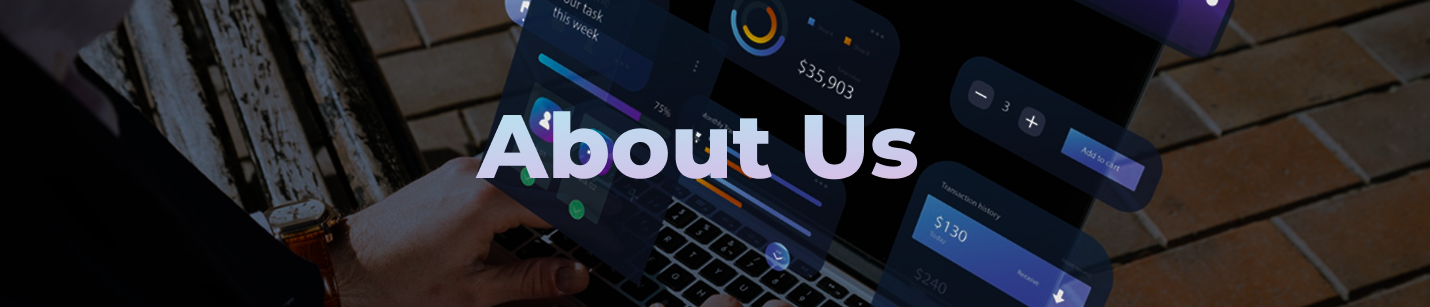
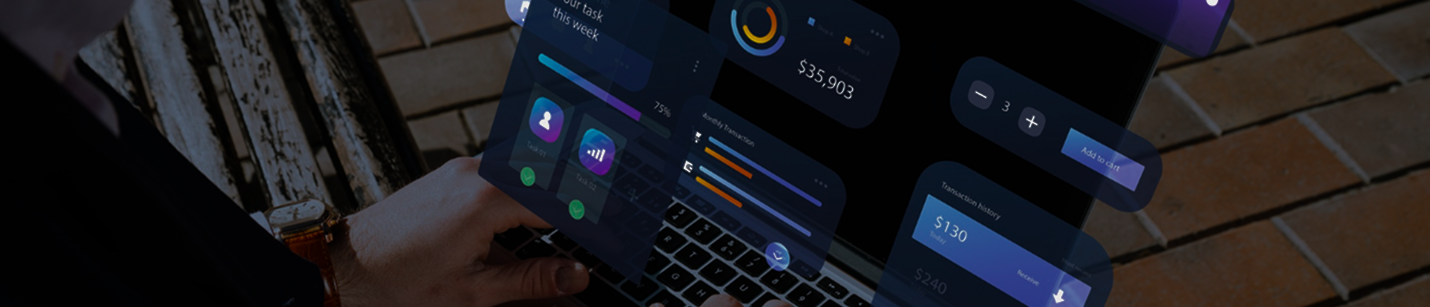
final edits 1

Changed region(s): [[0.3077, 0.3518, 0.6462, 0.5863]]

diff --git a/src/pages/Testimonials.jsx b/src/pages/Testimonials.jsx
@@ -1,8 +1,7 @@
 // src/pages/Testimonials.jsx
 import React, { useEffect, useState } from "react";
 import defaultPhoto from "../assets/austin-distel-jpHw8ndwJ_Q-unsplash.jpg";
-import heroPhoto from "../assets/testimonials.png";
-import ornamentImg from "../assets/Ornament81.png";
+import heroPhoto from "../assets/Group 28.png";
 import TestimonialsCarousel from "../components/TestimonialsCarousel";
 
 import img1 from "../assets/3.png";
@@ -32,15 +31,17 @@ async function loadPageMeta() {
     const res = await fetch("/content/pages/what-others-say/page.txt", { cache: "no-store" });
     if (!res.ok) throw new Error();
     const json = await res.json();
+
     return {
       heading: json.heading ?? "What Our Clients Say About Us",
-      intro: json.intro ?? "",
+      intro: "", 
       bg: json.meta?.bg || "#0b0b0b",
     };
   } catch {
     return { heading: "What Our Clients Say About Us", intro: "", bg: "#0b0b0b" };
   }
 }
+
 
 /* ---------- Testimonials parser (unchanged) ---------- */
 function parseTestimonials(txt) {
@@ -95,31 +96,19 @@ async function loadTestimonials() {
   };
 }
 
-/* ---------- Who We Worked With parser (intro as normal text) ---------- */
-/**
- * Structure:
- * [Intro paragraph...]
- *
- * Title 1:
- * Body lines...
- *
- * Title 2:
- * Body lines...
- * ...
- */
+/* ---------- Who We Worked With parser (unchanged) ---------- */
 function parseWhoWeWorkedWith(txt) {
   const rawLines = splitLines(txt);
   const lines = rawLines.map((l) => l.replace(/\u00A0/g, " ").trim());
   const N = lines.length;
 
-  // Intro paragraph: from top until first blank line (handle soft hyphen wraps)
+  // Intro paragraph
   let i = 0;
   const introBuf = [];
   while (i < N && lines[i] !== "") {
     introBuf.push(lines[i]);
     i++;
   }
-  // join lines, repairing "word-\nwrap" splits
   let intro = introBuf
     .reduce((acc, cur) => {
       if (acc.length && acc[acc.length - 1].endsWith("-") && /^[A-Za-z]/.test(cur)) {
@@ -133,10 +122,8 @@ function parseWhoWeWorkedWith(txt) {
     .replace(/\s{2,}/g, " ")
     .trim();
 
-  // Skip blank lines after intro
   while (i < N && lines[i] === "") i++;
 
-  // Items: any line that ends with ":" is a title; following non-blank lines form its body
   const items = [];
   while (i < N) {
     while (i < N && lines[i] === "") i++;
@@ -189,8 +176,6 @@ export default function Testimonials() {
     };
   }, []);
 
-  const items = data.items || [];
-
   const FIXED_HEADING =
     "The success of DATASCIENCEGT is built on a foundation of trust and expertise. These testimonials reflect the experience of working with our company.";
 
@@ -210,8 +195,26 @@ export default function Testimonials() {
         />
       </section>
 
-      {/* WHO WE WORKED WITH — centered backdrop only */}
-      <section className="mx-auto max-w-6xl px-4 sm:px-6 mt-10 sm:mt-12">
+      {/* ===== TESTIMONIALS (moved up) ===== */}
+      <section className="px-5 md:px-10 lg:px-16 py-6 md:py-8">
+        <div className="max-w-6xl mx-auto">
+          <h2 className="text-2xl md:text-3xl font-semibold text-white/90">{FIXED_HEADING}</h2>
+          {data.intro && <p className="text-white/70 mt-3 max-w-2xl">{data.intro}</p>}
+        </div>
+      </section>
+
+      <section className="px-3 md:px-6 lg:px-10 pb-10 md:pb-16">
+        <div className="relative mx-auto max-w-[1100px]">
+          {/* background ornament kept behind carousel */}
+
+          <div className="relative z-10">
+            <TestimonialsCarousel items={data.items || []} showTitle={false} />
+          </div>
+        </div>
+      </section>
+
+      {/* ===== WHO WE WORKED WITH (now below testimonials) ===== */}
+      <section className="mx-auto max-w-6xl px-4 sm:px-6 mt-6 sm:mt-8">
         <div className="relative h-[120px] sm:h-[180px] lg:h-[220px] flex items-center justify-center">
           <span
             aria-hidden="true"
@@ -281,37 +284,6 @@ export default function Testimonials() {
           </div>
         </section>
       )}
-
-      {/* Heading for Testimonials */}
-      <section className="px-5 md:px-10 lg:px-16 py-6 md:py-8">
-        <div className="max-w-6xl mx-auto">
-          <h2 className="text-2xl md:text-3xl font-semibold text-white/90">{FIXED_HEADING}</h2>
-          {data.intro && <p className="text-white/70 mt-3 max-w-2xl">{data.intro}</p>}
-        </div>
-      </section>
-
-      {/* Carousel */}
-      <section className="px-3 md:px-6 lg:px-10 pb-16">
-        <div className="relative mx-auto max-w-[1100px]">
-          <img
-            src={ornamentImg}
-            alt="pattern"
-            className="absolute z-0 pointer-events-none"
-            style={{
-              top: "-100px",
-              right: "150px",
-              width: "150px",
-              opacity: 1,
-              filter:
-                "brightness(0.35) contrast(1.6) saturate(0.9) drop-shadow(0 2px 6px rgba(0,0,0,0.55))",
-              mixBlendMode: "normal",
-            }}
-          />
-          <div className="relative z-10">
-            <TestimonialsCarousel items={data.items || []} showTitle={false} />
-          </div>
-        </div>
-      </section>
     </main>
   );
 }

diff --git a/src/pages/WhatWeDo.jsx b/src/pages/WhatWeDo.jsx
@@ -1,7 +1,7 @@
 import React, { useEffect, useState } from "react";
 import HeroImg from "../assets/Group 28.png";
 
-// ⬇ Replace with your actual images
+
 import img1 from "../assets/3.png";
 import img2 from "../assets/asset-approach.png";
 import img3 from "../assets/2.png";
@@ -21,7 +21,7 @@ function splitLines(txt) {
 
 function parseFrontMatter(lines) {
   let eyebrow = "Our Work";
-  let title = "Areas of our expertise, experience, and what value we can add?";
+  let title = "Expertise, Experience and Value We Add";
   let subtitle = "";
   let idx = 0;
 
@@ -134,29 +134,40 @@ export default function WhatWeDo() {
 
   return (
     <main className="relative pt-16 pb-24">
-      {/* Hero */}
-      <section className="w-full opacity-0 translate-y-6 transition-all duration-700 ease-out" data-animate>
-        <img src={HeroImg} alt="What We Do hero" className="block w-full h-auto select-none" />
+      {/* Hero (no filters/blur) */}
+      <section
+        className="w-full opacity-0 translate-y-6 transition-all duration-700 ease-out"
+        data-animate
+      >
+        <img
+          src={HeroImg}
+          alt="What We Do hero"
+          className="block w-full h-auto select-none"
+          style={{ filter: "none" }}
+        />
       </section>
 
       {/* Content */}
       <section className="mx-auto max-w-6xl px-4 sm:px-6 mt-10 sm:mt-12">
         {/* Heading */}
-        <div className="relative text-center mb-12 sm:mb-16 opacity-0 translate-y-6 transition-all duration-700 ease-out" data-animate>
+        <div
+          className="relative text-center mb-12 sm:mb-16 opacity-0 translate-y-6 transition-all duration-700 ease-out overflow-visible py-10 sm:py-12"
+          data-animate
+        >
           <span
             aria-hidden="true"
             className="pointer-events-none select-none absolute inset-0 flex items-center justify-center
                        font-black tracking-[0.08em] uppercase leading-none
                        text-transparent bg-clip-text
-                       text-[60px] sm:text-[100px] lg:text-[160px]
-                       bg-[linear-gradient(to_bottom,#15303b_0%,#173439_50%,#3d4850_100%)]"
-            style={{ WebkitTextFillColor: "transparent", textShadow: "0 0 24px rgba(23,52,58,0.35)" }}
+                       text-[52px] sm:text-[96px] lg:text-[148px]
+                       bg-[linear-gradient(to_bottom,#1f2937_0%,#23313a_60%,#3d4850_100%)]"
+            /* removed text shadow to kill blur */
+            style={{ WebkitTextFillColor: "transparent" }}
           >
             OUR WORK
           </span>
 
           <div className="relative z-[1]">
-            
             <h1 className="mt-3 text-2xl sm:text-3xl md:text-5xl font-bold text-white">
               {data.title}
             </h1>
@@ -184,6 +195,7 @@ export default function WhatWeDo() {
                   alt={card.title}
                   className="w-[120px] h-[120px] sm:w-[160px] sm:h-[160px] md:w-[180px] md:h-[180px] object-contain"
                   onError={(e) => { e.currentTarget.onerror = null; e.currentTarget.src = FallbackImg; }}
+                  style={{ filter: "none" }}
                 />
               </div>
 

diff --git a/src/components/Footer.jsx b/src/components/Footer.jsx
@@ -32,16 +32,16 @@ export default function Footer() {
                   </h3>
 
                   <p className="mt-3 text-2xl sm:text-3xl font-semibold text-white/90">
-                    For Free Consultation or email us @
+                    For Free Consultation or email us to
                   </p>
 
                   {/* Action chips */}
                   <div className="mt-8 flex flex-wrap items-center gap-4">
                     <a
-                      href="mailto:Ride@datasciencegt.com"
+                      href="mailto:ride@datasciencegt.com"
                       className="inline-flex items-center gap-2 rounded-xl border border-white/30 bg-white/10 text-white px-4 py-2 font-medium hover:bg-white/20 transition"
                     >
-                      Ride@datasciencegt.com
+                      ride@datasciencegt.com
                     </a>
                   </div>
                 </div>
@@ -57,11 +57,11 @@ export default function Footer() {
       {/* ===== Thin site footer ===== */}
       <div className="border-t border-white/10">
         <div className="mx-auto max-w-7xl px-4 sm:px-6 lg:px-8 h-14 flex flex-col sm:flex-row items-center justify-between text-sm text-white/60">
-          <span>© {new Date().getFullYear()} DataScienceGT. All rights reserved.</span>
+          <span> ©  {new Date().getFullYear()}2025 DATASCIENCEGT. All rights reserved</span>
           <div className="flex items-center gap-6 mt-2 sm:mt-0">
-            <a href="/what-we-do" className="hover:text-white">What We Do?</a>
-            <a href="/testimonials" className="hover:text-white">Testimonials</a>
-            <a href="/contact" className="hover:text-white">Contact</a>
+            <a href="/WhoWeAre" className="hover:text-white">Who We Are</a>
+            <a href="/what-we-do" className="hover:text-white">What We Do</a>
+            <a href="/testimonials" className="hover:text-white">What Others Say</a>
           </div>
         </div>
       </div>

diff --git a/src/pages/WhoWeAre.jsx b/src/pages/WhoWeAre.jsx
@@ -34,9 +34,9 @@ function Hero() {
               Since 2015 • Data + AI + ML + Analytics
             </p>
             <h1 className="text-3xl sm:text-4xl lg:text-5xl font-black leading-tight text-white drop-shadow">
-              End-to-end data and AI solutions
+              End-to-End Data & AI Solutions
               <br />
-              for <span className="text-white/95">decisive teams</span>
+              for <span className="text-white/95">for Decisive Teams</span>
             </h1>
   <div className="mt-6 flex items-center gap-3">
   <a
@@ -44,7 +44,7 @@ function Hero() {
     className="px-5 py-2.5 rounded-xl bg-gradient-to-r from-rose-500 to-orange-400 text-white font-medium shadow-lg shadow-rose-500/25"
     role="button"
   >
-    Ride With US
+    Ride with US
   </a>
 </div>
 

diff --git a/src/components/Navbar.jsx b/src/components/Navbar.jsx
@@ -13,7 +13,7 @@ export default function Navbar() {
 
   const nav = [
     { to: "/", label: "Who We Are" },
-    { to: "/what-we-do", label: "What We Do?" },
+    { to: "/what-we-do", label: "What We Do" },
     { to: "/testimonials", label: "What Others Say" },
     
   ];
